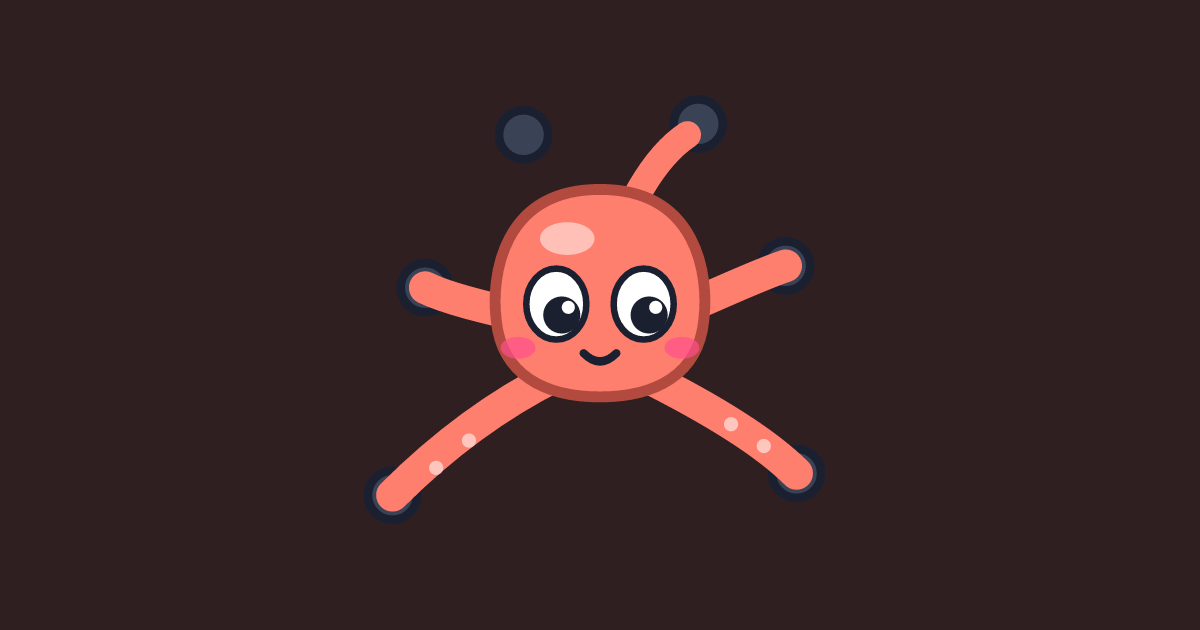
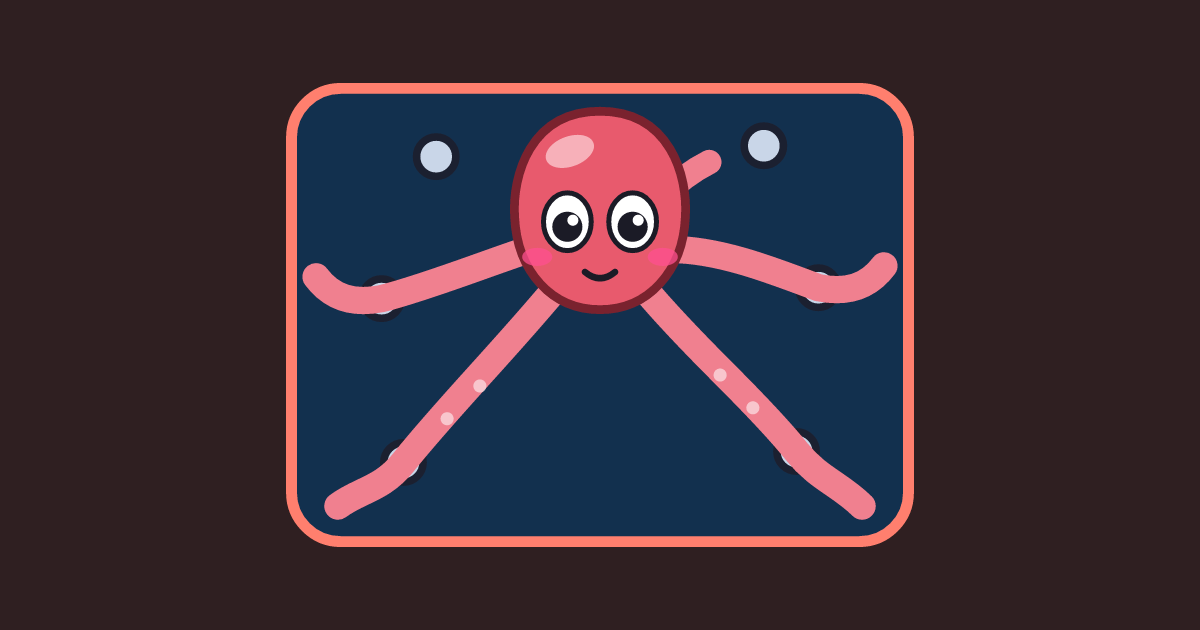
game: Tentacules coral-rose octopus, outward tips, matching card

diff --git a/www/src/games/tentacules/render.ts b/www/src/games/tentacules/render.ts
@@ -1,6 +1,7 @@
 import { TENT_ARMS, TENT_SQUAT_MS, TENT_SUMMIT_M, TENT_HANG_MS } from '../../../../shared/protocol';
 import { REACH, START_BODY, bandPegs, startPegs, type Peg, type Point } from '../../../../shared/tentacules';
 import { art, type SpriteSheet } from '../../core/art/sprites';
+import { ART_REFERENCE_HUE, hexHue, rotatedPixel } from '../../core/art/tint';
 import happyArt from './art/octopus-happy.svg?url&no-inline';
 import worriedArt from './art/octopus-worried.svg?url&no-inline';
 import strainArt from './art/octopus-strain.svg?url&no-inline';
@@ -30,8 +31,16 @@ const DECOR = [art(coralArt), art(weedArt)];
 /** The head is this wide, in wall units; the tentacles leave it at 80 % of its height. */
 export const HEAD = 0.2;
 const PEG_R = 0.022;
-/** Every player's own octopus is this pink-lilac; rivals keep their avatar colour as shadows. */
-export const OCTO_PINK = '#E58BEA';
+/** Every player's own octopus is this coral-rose, a step from the game's accent;
+ *  rivals keep their avatar colour as shadows. The head sprite is carried to it
+ *  by hue; the tentacles are the head's own pink taken the same way, a little lighter. */
+export const OCTO_COLOR = '#FF7F90';
+
+/** The tentacle colour that goes with a head tinted `tint` (the sprite is painted in `ART_REFERENCE_HUE`). */
+function skinOf(tint: string): string {
+  const [r, g, b] = rotatedPixel(240, 128, 240, hexHue(tint) - ART_REFERENCE_HUE);
+  return `rgb(${Math.round(r)}, ${Math.round(g)}, ${Math.round(b)})`;
+}
 /** A dragged tentacle over a peg it can take. */
 const GRAB_OK = '#4ADE80';
 
@@ -171,9 +180,20 @@ function tentacle(
     py = y;
   }
   if (curl) {
-    ctx.lineWidth = tip * 1.4;
+    // The end wraps the peg and its tip points away from the octopus.
+    const dx = bx - ax;
+    const dy = by - ay;
+    const d = Math.hypot(dx, dy) || 1;
+    const ux = dx / d;
+    const uy = dy / d;
+    const side = ux >= 0 ? 1 : -1;
+    const px = -uy * side;
+    const py = ux * side;
+    const r = PEG_R * f.w * 1.5;
+    ctx.lineWidth = tip * 1.5;
     ctx.beginPath();
-    ctx.arc(bx, by, PEG_R * f.w * 1.25, Math.PI * 0.1, Math.PI * 1.7);
+    ctx.moveTo(bx - ux * r * 0.4, by - uy * r * 0.4);
+    ctx.bezierCurveTo(bx + px * r * 1.6 - ux * r * 0.6, by + py * r * 1.6 - uy * r * 0.6, bx + px * r * 1.5 + ux * r * 1.8, by + py * r * 1.5 + uy * r * 1.8, bx + ux * r * 2.1, by + uy * r * 2.1);
     ctx.stroke();
   }
   ctx.restore();
@@ -292,6 +312,7 @@ export function draw(ctx: CanvasRenderingContext2D, f: Frame): void {
 
   // Me.
   const me = f.me;
+  const skin = skinOf(me.tint);
   if (me.pull) {
     const from = { x: sx(f, me.body.x), y: sy(f, me.body.y) };
     ctx.strokeStyle = '#FFD84D';
@@ -307,7 +328,7 @@ export function draw(ctx: CanvasRenderingContext2D, f: Frame): void {
     const from = root(me.body, arm);
     const held = me.holds[arm] ?? null;
     let to: Point = held ?? dangle(me.body, arm, f.now, f.reduced, me.vel);
-    let color = me.tint;
+    let color = skin;
     if (me.drag?.arm === arm) {
       const dx = me.drag.at.x - me.body.x;
       const dy = me.drag.at.y - me.body.y;

diff --git a/www/src/games/tentacules/TentaculesRoom.tsx b/www/src/games/tentacules/TentaculesRoom.tsx
@@ -25,7 +25,7 @@ import { useT } from '../../core/i18n/strings';
 import { useGameText } from '../../core/i18n/gameText';
 import { colorFor, loadAvatarColors } from '../../core/avatarColor';
 import { armed, drop, fresh, heldPegs, launch, reconcile, rest, tick, type Octo, type Send } from './game';
-import { OCTO_PINK, draw, pegOf, pegsNear, type Face, type Frame, type Rival, type Shadow } from './render';
+import { OCTO_COLOR, draw, pegOf, pegsNear, type Face, type Frame, type Rival, type Shadow } from './render';
 import './tentacules.css';
 
 /**
@@ -258,7 +258,7 @@ function Inner({ game: card, code }: { game: GameCard; code: string }): JSX.Elem
         summit: st.mode === 'summit',
         reduced,
         me: {
-          tint: OCTO_PINK,
+          tint: OCTO_COLOR,
           body,
           holds: o.holds,
           tips: tips.current,

diff --git a/docs/specs/games/tentacules.md b/docs/specs/games/tentacules.md
@@ -153,15 +153,16 @@ results.
   than the ones held.
 - **Your octopus is cute**, and that is a requirement, not a polish item: a
   round, soft head bigger than its body would suggest, two big shiny eyes with
-  white highlights, pink cheeks, a tiny smile — and **pink-lilac**, head and
-  tentacles, on every player's own screen (rivals' shadows keep their avatar
-  colour, so they are told apart). Its face reacts: content while
+  white highlights, rosy cheeks, a tiny smile — and **coral-rose** (`#FF7F90`,
+  a step from the card's coral accent), head and tentacles, on every player's
+  own screen (rivals' shadows keep their avatar colour, so they are told apart).
+  The tentacles are the head's own pink taken the same way, so they match. Its face reacts: content while
   holding on; worried brows and a wobbly mouth hanging by one tentacle;
   squeezed eyes and an "o" mouth while pulling back the slingshot; a delighted
   open smile in flight; dizzy spiral eyes after a fall. The faces are sprites
   in `art/` (one SVG per expression), the head shape stays the same. Tentacles
-  are drawn as soft tapering curves with a row of little suckers, ending in a
-  curl where they hold. A dragged
+  are drawn as soft tapering curves with a row of little suckers; a held one
+  wraps its peg and its **tip points away from the octopus**. A dragged
   tentacle follows the finger, turning red at the edge of its reach. Yellow
   blink when the slingshot is armed; a dashed arc while pulling back shows the
   launch direction.
